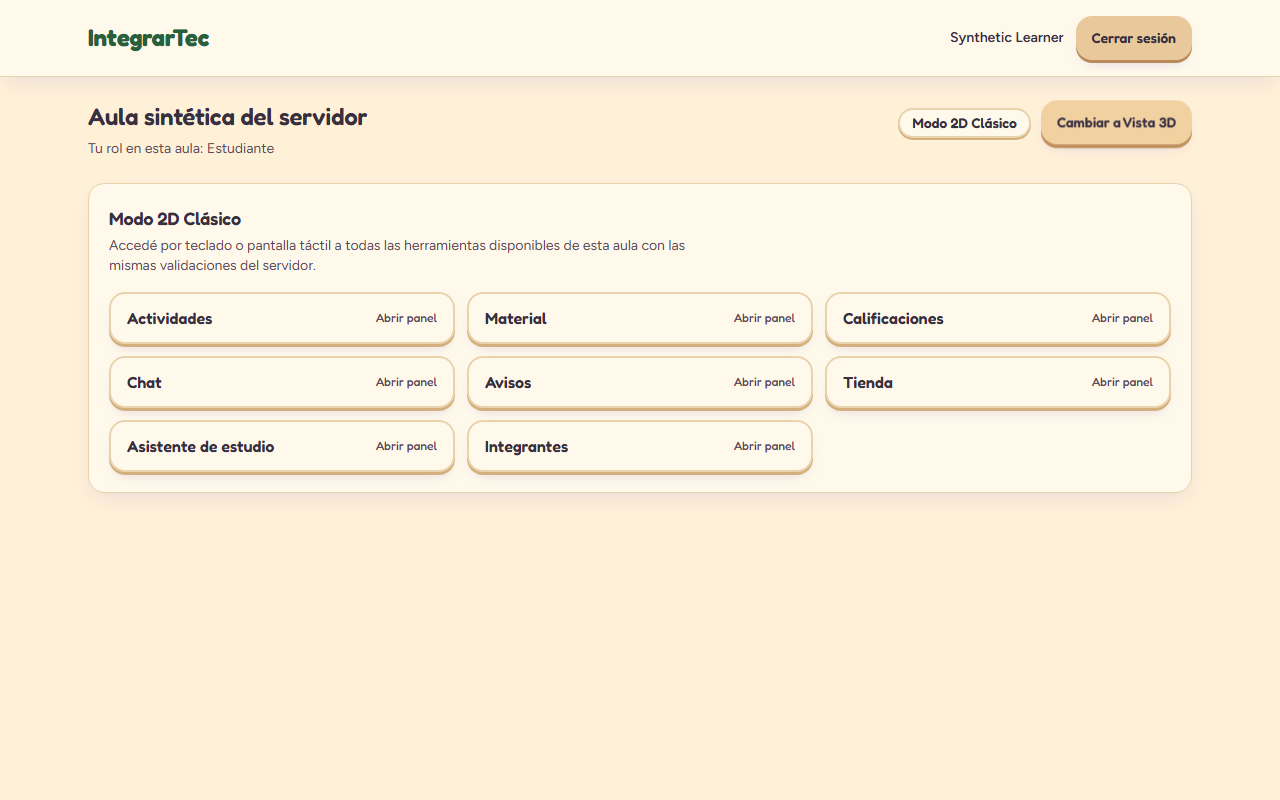
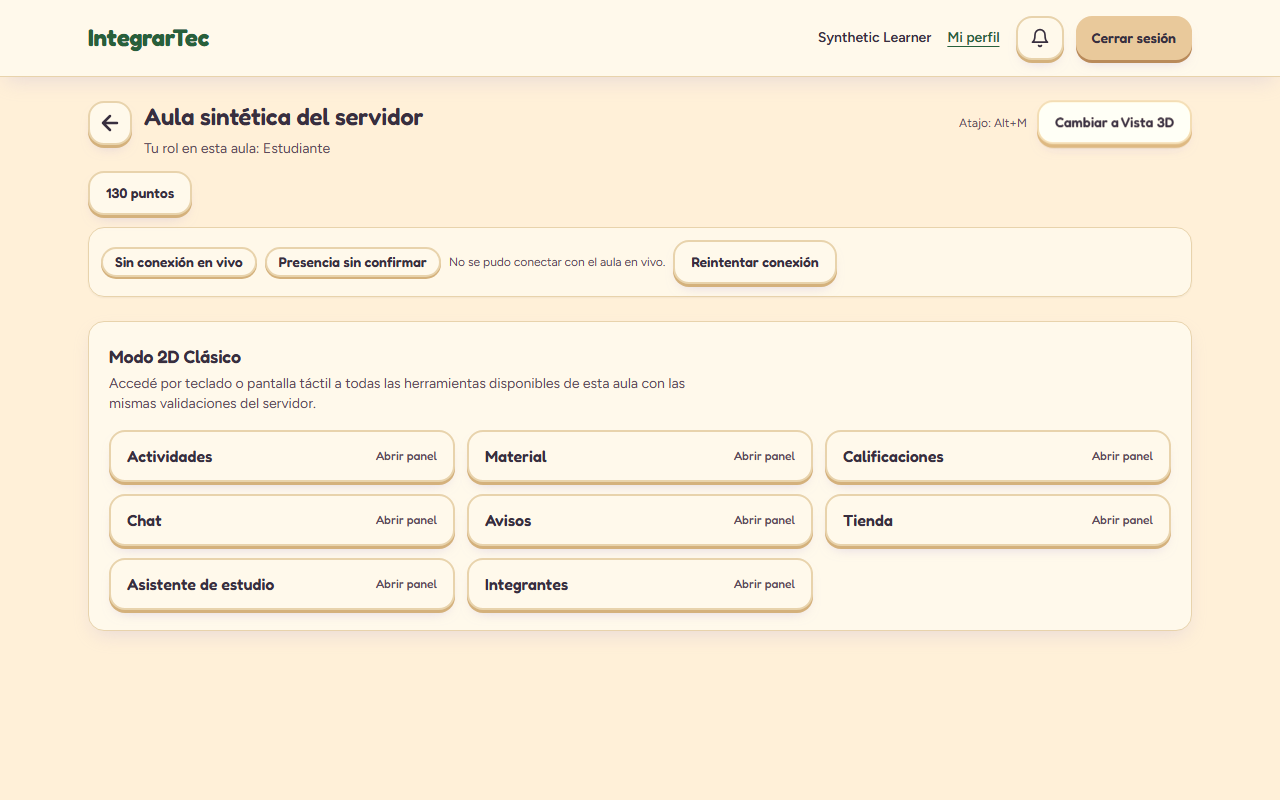
docs(classrooms): document real-time presence and update tracker

diff --git a/docs/security.md b/docs/security.md
@@ -21,20 +21,20 @@
 
 [`src/config/security-headers.ts`](../src/config/security-headers.ts) (`buildContentSecurityPolicy`) constructs the `Content-Security-Policy` header from the validated [`PublicConfig`](../src/config/public-config.ts) (`VITE_APP_ENV`, `VITE_API_BASE_URL`, `VITE_REALTIME_URL`).
 
-| Directive         | Value                                   | Why each source is allowed                                                                                                                                                                                                                                                                                                                                                                         |
-| ----------------- | --------------------------------------- | -------------------------------------------------------------------------------------------------------------------------------------------------------------------------------------------------------------------------------------------------------------------------------------------------------------------------------------------------------------------------------------------------- |
-| `default-src`     | `'none'`                                | Deny-by-default fallback; every resource class must be allowlisted explicitly.                                                                                                                                                                                                                                                                                                                     |
-| `script-src`      | `'self' 'wasm-unsafe-eval'`             | `'self'` allows the external Vite ES module bundles under `/assets/`. `'wasm-unsafe-eval'` permits WebAssembly module compilation for Three.js Draco/meshopt/KTX2 decoders (F15 / [#25](https://github.com/Agustin742/integratec-final-front/issues/25)) without enabling JavaScript `eval()` or `new Function()` (`'unsafe-eval'`). Inline `<script>` blocks and `'unsafe-inline'` are forbidden. |
-| `style-src`       | `'self' 'unsafe-inline'`                | `'self'` allows the bundled stylesheet under `/assets/`. `'unsafe-inline'` is required by Radix UI overlay positioning (`Dialog`, `Sheet`) and Sonner toast transforms, which apply runtime `style` attributes to DOM elements.                                                                                                                                                                    |
-| `img-src`         | `'self' data: blob:`                    | `'self'` serves static images and icons; `data:` and `blob:` support inline SVG data URIs, canvas/WebGL texture blobs, and local file previews before upload.                                                                                                                                                                                                                                      |
-| `font-src`        | `'self'`                                | Self-hosted `@fontsource-variable/fredoka` and `@fontsource-variable/figtree` `.woff2` font files are bundled under `/assets/`; no third-party font CDNs are used.                                                                                                                                                                                                                                 |
-| `connect-src`     | `'self' <API origin> <Realtime origin>` | `'self'` allows fetching same-origin static assets and decoder WASM binaries. `<API origin>` is derived from `new URL(config.apiBaseUrl).origin` (NestJS REST API) and `<Realtime origin>` from `new URL(config.realtimeUrl).origin` (Colyseus WebSocket server).                                                                                                                                  |
-| `worker-src`      | `'self' blob:`                          | Allows same-origin and `blob:` Web Workers used by Three.js Draco/KTX2 asset decoders (#25).                                                                                                                                                                                                                                                                                                       |
-| `manifest-src`    | `'self'`                                | Restricts web app manifests to the application's own origin.                                                                                                                                                                                                                                                                                                                                       |
-| `form-action`     | `'self'`                                | Prevents HTML `<form>` submissions from exfiltrating data to external origins.                                                                                                                                                                                                                                                                                                                     |
-| `frame-ancestors` | `'none'`                                | Forbids embedding the application inside `<frame>`, `<iframe>`, `<embed>`, or `<object>` (clickjacking protection).                                                                                                                                                                                                                                                                                |
-| `base-uri`        | `'self'`                                | Prevents `<base>` tag injection attacks from hijacking relative URL resolution.                                                                                                                                                                                                                                                                                                                    |
-| `object-src`      | `'none'`                                | Blocks legacy plugin execution (`<object>`, `<embed>`, `<applet>`).                                                                                                                                                                                                                                                                                                                                |
+| Directive         | Value                                   | Why each source is allowed                                                                                                                                                                                                                                                                                                                                                                                                                    |
+| ----------------- | --------------------------------------- | --------------------------------------------------------------------------------------------------------------------------------------------------------------------------------------------------------------------------------------------------------------------------------------------------------------------------------------------------------------------------------------------------------------------------------------------- |
+| `default-src`     | `'none'`                                | Deny-by-default fallback; every resource class must be allowlisted explicitly.                                                                                                                                                                                                                                                                                                                                                                |
+| `script-src`      | `'self' 'wasm-unsafe-eval'`             | `'self'` allows the external Vite ES module bundles under `/assets/`. `'wasm-unsafe-eval'` permits WebAssembly module compilation for Three.js Draco/meshopt/KTX2 decoders (F15 / [#25](https://github.com/Agustin742/integratec-final-front/issues/25)) without enabling JavaScript `eval()` or `new Function()` (`'unsafe-eval'`). Inline `<script>` blocks and `'unsafe-inline'` are forbidden.                                            |
+| `style-src`       | `'self' 'unsafe-inline'`                | `'self'` allows the bundled stylesheet under `/assets/`. `'unsafe-inline'` is required by Radix UI overlay positioning (`Dialog`, `Sheet`) and Sonner toast transforms, which apply runtime `style` attributes to DOM elements.                                                                                                                                                                                                               |
+| `img-src`         | `'self' data: blob:`                    | `'self'` serves static images and icons; `data:` and `blob:` support inline SVG data URIs, canvas/WebGL texture blobs, and local file previews before upload.                                                                                                                                                                                                                                                                                 |
+| `font-src`        | `'self'`                                | Self-hosted `@fontsource-variable/fredoka` and `@fontsource-variable/figtree` `.woff2` font files are bundled under `/assets/`; no third-party font CDNs are used.                                                                                                                                                                                                                                                                            |
+| `connect-src`     | `'self' <API origin> <Realtime origin>` | `'self'` allows fetching same-origin static assets and decoder WASM binaries. `<API origin>` is derived from `new URL(config.apiBaseUrl).origin` (NestJS REST API) and `<Realtime origin>` includes both `new URL(config.realtimeUrl).origin` (Colyseus WebSocket server) and its paired `http(s):` origin when `realtimeUrl` uses `ws(s):` so `@colyseus/sdk` HTTP(S) `/matchmake/` room reservation succeeds before upgrading to WebSocket. |
+| `worker-src`      | `'self' blob:`                          | Allows same-origin and `blob:` Web Workers used by Three.js Draco/KTX2 asset decoders (#25).                                                                                                                                                                                                                                                                                                                                                  |
+| `manifest-src`    | `'self'`                                | Restricts web app manifests to the application's own origin.                                                                                                                                                                                                                                                                                                                                                                                  |
+| `form-action`     | `'self'`                                | Prevents HTML `<form>` submissions from exfiltrating data to external origins.                                                                                                                                                                                                                                                                                                                                                                |
+| `frame-ancestors` | `'none'`                                | Forbids embedding the application inside `<frame>`, `<iframe>`, `<embed>`, or `<object>` (clickjacking protection).                                                                                                                                                                                                                                                                                                                           |
+| `base-uri`        | `'self'`                                | Prevents `<base>` tag injection attacks from hijacking relative URL resolution.                                                                                                                                                                                                                                                                                                                                                               |
+| `object-src`      | `'none'`                                | Blocks legacy plugin execution (`<object>`, `<embed>`, `<applet>`).                                                                                                                                                                                                                                                                                                                                                                           |
 
 ## Companion HTTP security headers
 

diff --git a/docs/classroom-workspace.md b/docs/classroom-workspace.md
@@ -76,14 +76,26 @@ necessary. A hint removes stale content as soon as the client observes it.
 - **Controls:** W, A, S, D or the arrow keys move the avatar in screen directions. Clicking or tapping the floor walks there along a grid A* path (`findPath`); a target on a desk or out of reach is rejected, so there is no false arrival and no marker. Any movement key or `Escape` cancels the walk. The canvas carries a screen-reader description of these controls.
 - **Input arbitration:** `src/lib/input-arbitration.ts` is shared with the `Alt+M` shortcut. Typing in a text control, an open dialog, modifier chords and arrow keys inside focused tab, menu or slider widgets never move the avatar. Held keys and the destination are cleared on window blur, hidden tab, dialog open, classroom switch and unmount.
 - **Rendering:** per-frame movement mutates a three `Group` inside `useFrame`; React state changes only when the avatar starts or stops (Walk / Idle clips). The demand frame loop is invalidated while moving and on input.
-- **Scope boundary:** movement is local only. The avatar spawns at `spawnPoints[0]`, nothing is persisted, and the `{ x, z }` movement intent is exposed through `onIntentChange` for `#37`, which sends it to the room and renders remote avatars.
+- **Scope boundary:** local movement physics and collision bounds match the server; server-authoritative spawn, intent dispatch, remote avatar rendering, and reconnect/control reconciliation belong to `#37` below.
+
+## Real-time classroom presence and remote avatars (#37)
+
+- **Shared room connection (`ClassroomRealtimeProvider`):** `useClassroomPresence` (`src/features/classrooms/use-classroom-presence.ts`) acquires a ref-counted lease via `useClassroomRealtime` (`ClassroomRealtimeProvider`) for non-parent members once `GET /classrooms/{id}` confirms context (`PARENT` accounts never open a live classroom room). Switching classrooms, switching accounts, or logging out releases the old room and clears remote participants and queued destinations.
+- **Movement intents and authoritative spawn/reconciliation:** `useClassroomNavigation` spawns the local avatar at the server-assigned `selfPose` from `ClassroomState.avatars` (falling back to `spawnPoints[0]` before attachment), forwards `{ x, z }` movement intents to `avatar:input` only while `status === 'connected'`, unfrozen, and in `3D` mode, and reconciles to authoritative server coordinates when joining, reconnecting, settling, or receiving a server correction/seat snap (`> 1.5` units). Local prediction never grants access or overrides server rejection.
+- **Remote avatar interpolation (`useFrame`):** `RemoteAvatar` (`src/features/world/classroom/remote-avatar.tsx`) and `advanceRemoteAvatar` (`remote-avatar-frame.ts`) exponentially smooth remote participants toward 20 Hz server patches (`REMOTE_INTERPOLATION_RATE = 12`, shortest-arc rotation across `±π`, snapping beyond `4` units) by mutating a Three.js `Group` directly in `useFrame`; React re-renders only on `Idle`/`Walk` transitions or appearance/status changes.
+- **Base avatar resolution:** Remote participants render with the confirmed `avatar.appearance` carried on room state when present, or look up base `AvatarDto` configurations from `GET /classrooms/{id}/members` (`classroomDirectoryMembersQueryKey`), falling back safely to a placeholder capsule while unavailable. Live equipped accessories on avatars/desks remain scoped to `#58`.
+- **Connection UI, control reconciliation, and immediate exit:** `ClassroomPresenceBar` (`src/features/classrooms/classroom-presence-bar.tsx`) distinguishes `connecting`, `connected` (`En vivo`), `reconnecting` (`Presencia sin confirmar` while retaining last known participants for visual continuity until reconciled), `rejected` (with bounded retry for non-forbidden failures), and retryable `disconnected` states. Persisted controls (`chatMuted`, `collaborationLocked`, `gamesDisabled`) and ephemeral `frozen` are reconciled from room state and invalidated REST context on join/reconnect; while `frozen` is true, keyboard and click navigation stop and any queued destination is cleared. Live access revocation (`4001` `access_revoked`) immediately unmounts the 3D scene and open panels, disposes classroom world assets, removes cached context, and shows `classroom-lost-access` with a link back to `/`.
+- **Decisions & boundaries recorded with `back #25`:**
+  - **Multi-tab identity:** One avatar per authenticated `userId` shared across up to `MAX_CONNECTIONS_PER_USER` (3) tabs/connections (`ClassroomRoom` on backend `#25`).
+  - **Reconnect window & timing:** Backend holds dropped connections for `DEFAULT_RECONNECTION_WINDOW_SECONDS = 20`; frontend attempts Colyseus `reconnect(reconnectionToken)` immediately on `onDrop` and `ClassroomRealtimeManager` backs off transient reconnects from `2 s` to `30 s`.
+  - **2D Classic Mode in room:** Switching to `2D Classic Mode` keeps the live room connection active (shared with classroom chat) and sends `{ x: 0, z: 0 }` to stop movement intent while unmounting the 3D canvas.
 
 ## Verification boundary
 
-Synthetic component tests cover loading, server name/parent metadata, exact Outlet control values, shared capability cache, delayed classroom/account switches, cancellation, logout, non-disclosing failures, refresh failures and retry, plus 3D ↔ 2D toggling, `Alt+M` input/dialog arbitration, per-account mode isolation, and parent exclusion. Router and capability regression checks remain required. Mock results are not live-backend authorization proof; desktop/mobile render, keyboard/focus/overflow checks and full configured checks must be recorded separately.
+Synthetic component tests cover loading, server name/parent metadata, exact Outlet control values, shared capability cache, delayed classroom/account switches, cancellation, logout, non-disclosing failures, refresh failures and retry, plus 3D ↔ 2D toggling, `Alt+M` input/dialog arbitration, per-account mode isolation, and parent exclusion. Fake-room tests (`src/features/classrooms/classroom-presence.test.tsx`, `src/features/world/classroom/remote-avatar.test.tsx`, `remote-avatar-frame.test.ts`, `use-classroom-navigation.test.tsx`) verify two-client presence, base avatar resolution, duplicate-update deduplication, ghost-free removal, drop/reconnect control reconciliation, frozen input lock, and immediate `4001` exit. Router and capability regression checks remain required. Mock results are not live-backend authorization proof; desktop/mobile render, keyboard/focus/overflow checks and full configured checks must be recorded separately.
 
 ## Deferred
 
-Panel business content beyond the delivered `activities` inbox and teacher editor (`#41` + `#39`), study `material` manager (`#40`), `members` staff tabs (roster `#33` and `invite_members`-gated invitations/join-code `#32`), the classroom `chat` panel (`#51`), final 3D furniture models and in-scene interactions (`#38`), remote avatars and presence (`#37`), and parent tools are not delivered. Panel registration, nested URL opening, and accessible 2D Classic Mode navigation (`#34`) are provided; the remaining minimum entries explicitly identify their content as pending. B/SSE invalidation is consumed, but this slice promises no globally instantaneous propagation. Login return destinations remain restricted to `/`.
+Panel business content beyond the delivered `activities` inbox and teacher editor (`#41` + `#39`), study `material` manager (`#40`), `members` staff tabs (roster `#33` and `invite_members`-gated invitations/join-code `#32`), the classroom `chat` panel (`#51`), final 3D furniture models and in-scene interactions (`#38`), equipped accessory meshes (`#58`), and parent tools are not delivered. Panel registration, nested URL opening, and accessible 2D Classic Mode navigation (`#34`) are provided; the remaining minimum entries explicitly identify their content as pending. B/SSE invalidation is consumed, but this slice promises no globally instantaneous propagation. Login return destinations remain restricted to `/`.
 
 See [routing](./routing.md), [state ownership](../rules/state-management.md), and [classroom authority](../rules/classrooms-and-roles.md).

diff --git a/docs/ai-usage.md b/docs/ai-usage.md
@@ -127,6 +127,12 @@ Course declaration of AI use in the development process (see [course requirement
 - **Assistance and correction:** AI-assisted implementation delivered the provisional contract, typed service and stateful MSW store (commit `757bb6e`), the exam panel with answer retention, uncertain-outcome reconciliation and server-only results (`9b23223`), and the e2e/docs slice. A first tracker draft landed in the wrong participant's file and was reverted to `develop` content and re-recorded under `changelogs/tracker-alejo.md` after the contributor's correction. The e2e draft also exposed a Playwright reality: the panel's radios are visually hidden inside their label touch targets, so the spec activates the option labels like a user instead of force-clicking the `sr-only` inputs, and un-awaited locator clicks raced the flow before event tracing caught them.
 - **Verification boundary:** Local verification on Node v24.15.0 (`npm_config_engine_strict=false`): lint, typecheck, production build, `security:check` and `format:check` pass; focused exam vitest suites `18/18`; full vitest `1084/1087` with the 3 failures being the pre-existing Node-24 `materials` class (identical in isolation, documented as the develop baseline in the `#42` entry) plus one flaky `classroom-invitations` case that passes in isolation; focused Playwright `e2e/exam-answering.spec.ts` `4/4` desktop 1280 and mobile 360 with CSP-violation/page-error monitors, no-horizontal-overflow checks and fresh screenshots; `check_docs.py` passes; the Python CI `unittest` suite fails on this Windows git-bash workstation because the shell's `/tmp` warning pollutes the tests' own subprocess fixtures (they run in Ubuntu CI); `git diff --check` clean. The e2e run used a private preview of the freshly built bundle (port 4174 via `PLAYWRIGHT_BASE_URL`) because the configured port 4173 was held by another worktree's server. MSW and synthetic-route evidence is not live-backend proof; the backend evaluator (back #47) is not merged. Team review, push and PR remain human responsibilities.
 
+## Real-time classroom presence and remote avatars (#37)
+
+- **Human scope decision:** The contributor selected [issue #37](https://github.com/Agustin742/integratec-final-front/issues/37) (`HU-ESP-001` part 2/2) on `feat/37-realtime-presence` in a dedicated worktree from `develop`, reusing F13's `ClassroomRealtimeProvider` ref-counted lease (`useClassroomRealtime`), driving remote avatars strictly from server-accepted Colyseus state via `useFrame` exponential interpolation, resolving base avatar appearance from room state or `GET /classrooms/:id/members`, reconciling persisted classroom controls on join and reconnect, and triggering immediate workspace exit on `4001 access_revoked` while keeping freeze UI controls, connected-time reporting, and equipped accessory meshes (`#58`) out of scope.
+- **Assistance and corrections:** AI-assisted implementation wired `RemoteAvatar`, `advanceRemoteAvatarPose`, `useClassroomPresence`, `ClassroomPresenceBar`, extended `fake-realtime-sdk.ts`, and authored fake-room integration tests plus CSP/E2E updates. Automated lint, Vitest, and browser E2E checks caught three defects that were fixed before completion: (1) passing `role` as a JSX prop on `<RemoteAvatar>` triggered `jsx-a11y/aria-role` and mutating `userData` inside `useEffect` triggered `react-hooks/immutability`, resolved by keeping `role` on `RemoteClassroomParticipant` and moving initial avatar placement into `useMemo`; (2) mounting an idle disabled `useQuery` registered a second `classrooms`-domain observer and broke `classroom-workspace.test.tsx`'s query-count invariant, resolved by fetching `GET /classrooms/:id/members` via `queryClient.fetchQuery` only when connected remote participants lack appearance data; and (3) `@colyseus/sdk` issues an HTTP(S) `/matchmake/` `fetch` before opening its `ws(s):` WebSocket, which Chromium CSP monitoring in `e2e/classroom-workspace.spec.ts` caught as blocked until `getExpectedConnectSrcTokens` in `src/config/security-headers.ts` included the paired `http(s):` matchmaking origin.
+- **Verification boundary:** Local verification relies on unit and fake-room integration tests (Vitest) plus Playwright E2E with synthetic REST/matchmake route stubs in showcase mode; live Colyseus WebSocket + HTTP matchmaking integration against `integratec-final-back` and visual/team review remain human and CI verification responsibilities.
+
 ## Data handling
 
 Secrets, credentials, and real personal data are not submitted to AI tools, per [Responsible AI usage](../rules/ai-usage.md#data-handling).

diff --git a/changelogs/tracker-alejo.md b/changelogs/tracker-alejo.md
@@ -1,5 +1,18 @@
 # Tracker — Alejo
 
+## 2026-11-21 — Real-time classroom presence, remote avatar interpolation, and reconnect states (#37)
+
+- **Status:** completed (implemented on `feat/37-realtime-presence`, verified with targeted Vitest suites, ESLint, TypeScript, production build + security check, and Playwright `classroom-workspace` E2E; ready for commits and PR against `develop`)
+- **Area / files:** `src/realtime/` (`client.ts`, `use-classroom-realtime.ts`, `index.ts`, tests), `src/test/realtime/fake-realtime-sdk.ts`, `src/features/world/` (`classroom/remote-avatar-frame.ts`, `classroom/remote-avatar.tsx`, `classroom/use-classroom-navigation.ts`, `classroom/classroom-scene.tsx`, `classroom/classroom-world.tsx`, `movement/use-local-avatar-controller.ts`, `index.ts`, tests), `src/features/classrooms/` (`use-classroom-presence.ts`, `classroom-presence-bar.tsx`, `classroom-3d-stage.tsx`, `classroom-workspace.tsx`, `messages.ts`, `classroom-presence.test.tsx`, tests), `src/config/security-headers.ts` (+ `.test.ts`), `customHttp.yml`, `e2e/classroom-workspace.spec.ts`, `docs/classroom-workspace.md`, `docs/realtime-client.md`, `docs/security.md`, `docs/ai-usage.md`, `docs/assets/classroom-workspace/` (`mode-2d-1280.png`, `mode-2d-360.png`), `docs/assets/classroom-panels/` (`entry-1280.png`, `entry-360.png`), `changelogs/tracker-alejo.md`
+- **Change:** Implemented [issue #37](https://github.com/Agustin742/integratec-final-front/issues/37) (`HU-ESP-001` part 2/2) on `feat/37-realtime-presence` (branched from `develop` `42a08a4` in `odd/worktrees/37-realtime-presence`):
+  1. Shared Colyseus room connection via `ClassroomRealtimeProvider` ref-counted lease (`useClassroomRealtime`) plus extracted `RealtimeClassroomControls` and optional `participant.avatar` appearance from room state (`src/realtime/`).
+  2. Server-authoritative local spawn and drift reconciliation plus `frozen` input gating (`useClassroomNavigation`, `useLocalAvatarController.reset`) and per-frame `useFrame` exponential interpolation without per-frame React state updates for remote participants (`RemoteAvatar`, `advanceRemoteAvatar`).
+  3. Honest connection bar (`ClassroomPresenceBar`), room control reconciliation (`chatMuted`, `collaborationLocked`, `gamesDisabled`, `frozen`) on join and reconnect, base avatar resolution via room appearance or `GET /classrooms/:id/members` fallback (`queryClient.fetchQuery`), and immediate workspace exit on `4001 access_revoked` (`useClassroomPresence`, `ClassroomWorkspace`).
+  4. Added the paired `http(s):` Colyseus matchmaking origin in `getExpectedConnectSrcTokens` (`src/config/security-headers.ts`) and synchronized `customHttp.yml` + `docs/security.md` so browser CSP permits `@colyseus/sdk` `/matchmake/` requests before upgrading to `ws(s):`, plus updated `e2e/classroom-workspace.spec.ts` stubs and refreshed `1280px`/`360px` workspace screenshots.
+- **Reason:** Connect the 3D classroom scene and workspace to the authoritative Colyseus room so authorized members see live presence and smooth remote movement with honest disconnection/revocation handling (`rules/realtime-and-presence.md`, `rules/movement-and-interactions.md`, `rules/state-management.md`, `rules/authentication-and-session.md`, `rules/error-handling-and-feedback.md`).
+- **Verification:** `tsc --noEmit` 0 errors; `eslint` 0 errors (pre-existing `jsx-ast-utils` warning only); Vitest 44 files / 441 tests passing (`src/config/security-headers.test.ts`, `src/realtime`, `src/features/world`, `src/features/classrooms/classroom-presence.test.tsx`, `classroom-3d-stage`, `classroom-workspace`, `classroom-mode-switch`, `classroom-workspace-panels`, `classroom-roster-panel`, `classroom-invitations-panel`, `chat`); `node scripts/assets/check-asset-budget.mjs` passing; production `vite build` + `node scripts/security/check-security-build.mjs` passing; showcase build + Playwright `e2e/classroom-workspace.spec.ts` 22/22 passing at `1280px` and `360px` with zero CSP violations and zero page errors (synthetic REST/matchmake stubs; live `integratec-final-back` integration test remains separate); Prettier check, `check_docs.py`, and `git diff --check` clean on final commit tree.
+- **Next step:** Commit work units on `feat/37-realtime-presence` and open PR against `develop`.
+
 ## 2026-11-21 — Review, develop conflict resolution, and merge of PR #112 (#36)
 
 - **Status:** completed (merged `origin/develop` into `feat/36-classroom-scene`, verified on the merged tree, ready to approve and merge [PR #112](https://github.com/Agustin742/integratec-final-front/pull/112))

diff --git a/docs/realtime-client.md b/docs/realtime-client.md
@@ -28,5 +28,6 @@ The realtime client layer (`src/realtime/`) provides one lifecycle-safe Colyseus
 
 - Incoming messages are filtered by `type`, active `classroomId`, seen `eventId` deduplication, monotonic `seq`, and caller Zod schemas; unknown or malformed messages are ignored safely.
 - Outgoing movement intents (`sendAvatarInput`) validate against jitless `avatarInputSchema` and only send while `status === 'connected'`.
-- `useClassroomRealtime` (`src/realtime/use-classroom-realtime.ts`) scopes one connection to `(sessionUserId, classroomId, enabled)` and disposes rooms and listeners synchronously on StrictMode double-mounts, classroom switches, and `SessionController` logout cleanup (`registerCleanup`).
-- `ClassroomRealtimeProvider` / `createClassroomRealtimeManager` (`src/realtime/classroom-realtime-*`) are the app-level owner for UI that only listens (classroom chat, see [chat guide](./ui-chat.md#live-messages)): at most one connection per classroom shared by ref-counted subscribers, capped at `MAX_CONNECTIONS_PER_USER`, closed shortly after the last release, with backoff retry for transient failures. Joining the room registers the user's avatar and connected time on the server, so open connections only while a subscriber needs them.
+- `useClassroomRealtime` (`src/realtime/use-classroom-realtime.ts`) scopes one connection to `(sessionUserId, classroomId, enabled)` and disposes rooms and listeners synchronously on StrictMode double-mounts, classroom switches, and `SessionController` logout cleanup (`registerCleanup`). When mounted under `ClassroomRealtimeProvider` without custom test client/URL overrides, it acquires a shared lease from `ClassroomRealtimeManager` so the 3D classroom workspace (`#37`) and classroom chat (`#51`) share one connection per classroom without consuming duplicate per-user connection slots.
+- `ClassroomRealtimeProvider` / `createClassroomRealtimeManager` (`src/realtime/classroom-realtime-*`) are the app-level owner for classroom realtime subscriptions (3D presence and classroom chat, see [classroom workspace](./classroom-workspace.md#real-time-classroom-presence-and-remote-avatars-37) and [chat guide](./ui-chat.md#live-messages)): at most one connection per classroom shared by ref-counted subscribers, capped at `MAX_CONNECTIONS_PER_USER`, closed shortly after the last release, with backoff retry for transient failures. Joining the room registers the user's avatar and connected time on the server, so open connections only while a subscriber needs them.
+- `RealtimeSnapshot` exposes `controls` (`chatMuted`, `collaborationLocked`, `gamesDisabled`, `frozen`) and optional per-participant `avatar` appearance extracted safely from room state when present, resetting to `{ frozen: false }` whenever the connection is not `connected`.
